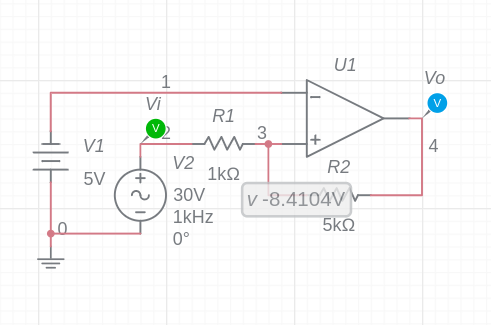
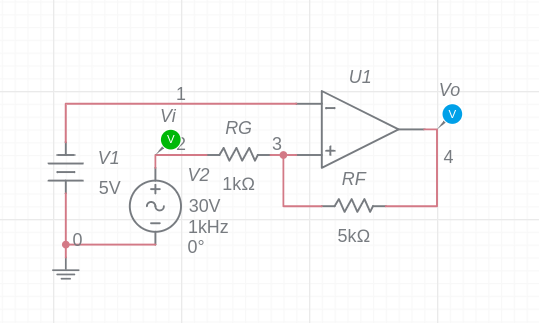
Fix

Changed region(s): [[0.0611, 0.1548, 0.9165, 0.8669], [0.6721, 0.3406, 0.7026, 0.3715]]

diff --git a/docs/programma_a040/9_elementi_di_sistemi_automatici_e_di_automazione_industriale.md b/docs/programma_a040/9_elementi_di_sistemi_automatici_e_di_automazione_industriale.md
@@ -4,9 +4,14 @@
 
 * Fabrizio Cerri - Corso di Sistemi Automatici Volume 1 (Modulo D)
 
+* Quali sono le ipotesi più probabili che vengono prese per analizzare un sistema? Linearità, causalità e tempo invarianza
+
 ## Analisi dei sistemi mediante schemi a blocchi funzionali
 
 * Fabrizio Cerri - Corso di Sistemi Automatici Volume 1 (Modulo D)
+
+
+* La funzione di trasferimento del derivatore reale presenta uno zero nell’origine e un polo diverso da zero
 
 ## Rappresentazioni grafiche delle funzioni di trasferimento nel dominio della pulsazione, diagrammi di Bode e Nyquist
 
@@ -16,7 +21,23 @@
 
 ## Stabilità dei sistemi
 
+* Il criterio di Routh-Hurwitz è utilizzato per determinare il numero di radici a parte reale positiva e negativa di un polinomio a partire dai suoi coefficienti. Risulta utile per esempio per determinare la stabilità di un sistema dinamico lineare e tempo-invariante a singolo ingresso e singola uscita (SISO).
+
+* Per un sistema tempo continuo, lineare, causale e tempo invariante la stabilità è garantita se la parte reale dei poli della funzione ad anello chiuso appartengono al semipiano di sinistra
+
+* Nel progettare un sistema di controllo utilizzando il metodo di Bode, il margine di fase (in gradi) richiesto dovrà essere Mfase ≥ 40
+
+* Una rete stabilizzatrice anticipatrice è in grado di aumentare la fase della funzione d’anello del sistema
+
+* La trasformata Zeta è utilizzata per analizzare e progettare un sistema tempo-discreto, lineare, causale, tempo invariante
+
+* Indicare quale specifica consiglia la posizione del compensatore analogico in catena diretta anziché in catena di retroazione: sensibilità multiparametrica
+
+* L’ordine di un filtro attivo è pari al numero dei poli della sua funzione di trasferimento
+
 ## Sistemi di controllo analogici e digitali programmabili e non
+
+* Quali filtri numerici o digitali sono intrinsecamente stabili Filtri FIR
 
 ## Software di simulazione dedicato
 

diff --git a/docs/programma_a040/4_fondamenti_di_elettronica_analogica.md b/docs/programma_a040/4_fondamenti_di_elettronica_analogica.md
@@ -66,6 +66,15 @@ Il diodo Zener è un tipo di diodo a giunzione p-n, il cui comportamento è dete
 | Interdizione   | Polarizzazione inversa        | Polarizzazione inversa        |
 | Saturazione   | Polarizzazione diretta        | Polarizzazione diretta        |
 
+
+**BJT in saturazione**
+
+<div align="center">
+  <img src="../../images/bjt_saturation.png" alt="Partitore di corrente"
+  width="600"/>
+</div>
+
+
 **Collettore comune**
 
 In questa configurazione l’amplificazione Vu / Vi vale circa 1
@@ -85,18 +94,34 @@ In questa configurazione l’amplificazione Vu / Vi vale circa 1
 
 * Gaetano Conte - Corso di elettrotecnica ed elettronica Volume 2 (Modulo G)
 
-**Trigger di Schmitt**
+**Trigger di Schmitt invertente**
 
 <div align="center">
-  <img src="../../images/trigger_di_schmitt.png" alt="Resistore reale"/>
+  <img src="../../images/trigger_schmitt.png" alt="Partitore di corrente"
+  width="400"/>
 </div>
 
-L'isteresi vale:
+<div align="center">
+  <img src="../../images/trigger_schmitt_graph.png" alt="Partitore di corrente"
+  width="600"/>
+</div>
+
+
+Le soglie possono essere calcolate:
+
+$$
+V_{th(L)} = - V_{sat}\frac{R_G}{R_F+R_G}
+$$
+
+$$
+V_{th(H)} = V_{sat}\frac{R_G}{R_F+R_G}
+$$
+
+L'isteresi quindi vale:
 
 $$
 H = V_{th(H)} - V_{th(L)} = 2 V_{sat}\frac{R_G}{R_F+R_G}
 $$
-
 
 **Trigger di Schmitt non invertente con caratteristica traslata**
 

diff --git a/docs/programma_a040/6_generazione,acquisizione,elaborazione_e_distribuzione_dei_segnali.md b/docs/programma_a040/6_generazione,acquisizione,elaborazione_e_distribuzione_dei_segnali.md
@@ -2,8 +2,37 @@
 
 ## Sensori, trasduttori, condizionamento del segnale
 
+* Fabrizio Cerri - Corso di Sistemi Automatici Volume 3 (Modulo E)
+
 ## Campionamento, conversione A/D e D/A
 
 * Ambrosini - Telecomunicazioni (Uda 9)
+
+* Fabrizio Cerri - Corso di Sistemi Automatici Volume 3 (Modulo A)
+
+* Millman - Microelettronica (Cap. 16)
+
+* La risoluzione di un convertitore A/D a 4 bit con ingresso compreso tra 0V e 10V vale 6,25%
+
+$$
+  R = \frac{V_{FS}}{2^n}
+$$
+
+Mentre la risoluzione percentuale vale: 
+
+$$
+  R_{\%} = \frac{100}{2^n}
+$$
+
+
+* Il campionamento di un segnale con banda fM deve avvenire con frequenza fC > 2fM
+
+
+* Sono convertitori A/D i convertitori:
+  * Flash
+  * approssimazioni successive
+  * sigma-delta 
+
+* Il metodo della trasformazione di Laplace per funzioni reali è utilizzato per risolvere equazioni differenziali ordinarie lineari
 
 ## Interfacciamento con unità di elaborazione e protocolli di comunicazione

diff --git a/docs/programma_a040/2_elettronica_digitale.md b/docs/programma_a040/2_elettronica_digitale.md
@@ -27,6 +27,10 @@
   <img src="../../images/xor.png" alt="Partitore di corrente" width=100/>
 </div>
 
+* Un multiplexer 16-1 consente di scegliere tramite 4 ingressi di selezione uno dei 16 segnali in ingresso da trasmettere in uscita
+
+* Per pilotare un display a 7 segmenti serve un decoder BCD/7segmenti
+
 **Flip Flop**
 
 * In un flip flop SR (Set Reset) a porte NAND lo stato di ingresso non valido è 0, 0.
@@ -34,6 +38,8 @@
 * In un flip flop SR (Set Reset) a porte NOR lo stato di ingresso non valido è 1, 1.
 
 * Il flip flop JK è una rete: sequenziale sincrona
+
+* Un contatore decimale (modulo 10) si può ottenere con 4 flip flop JK in cascata con J=K=1
 
 **Multivibratori**
 
